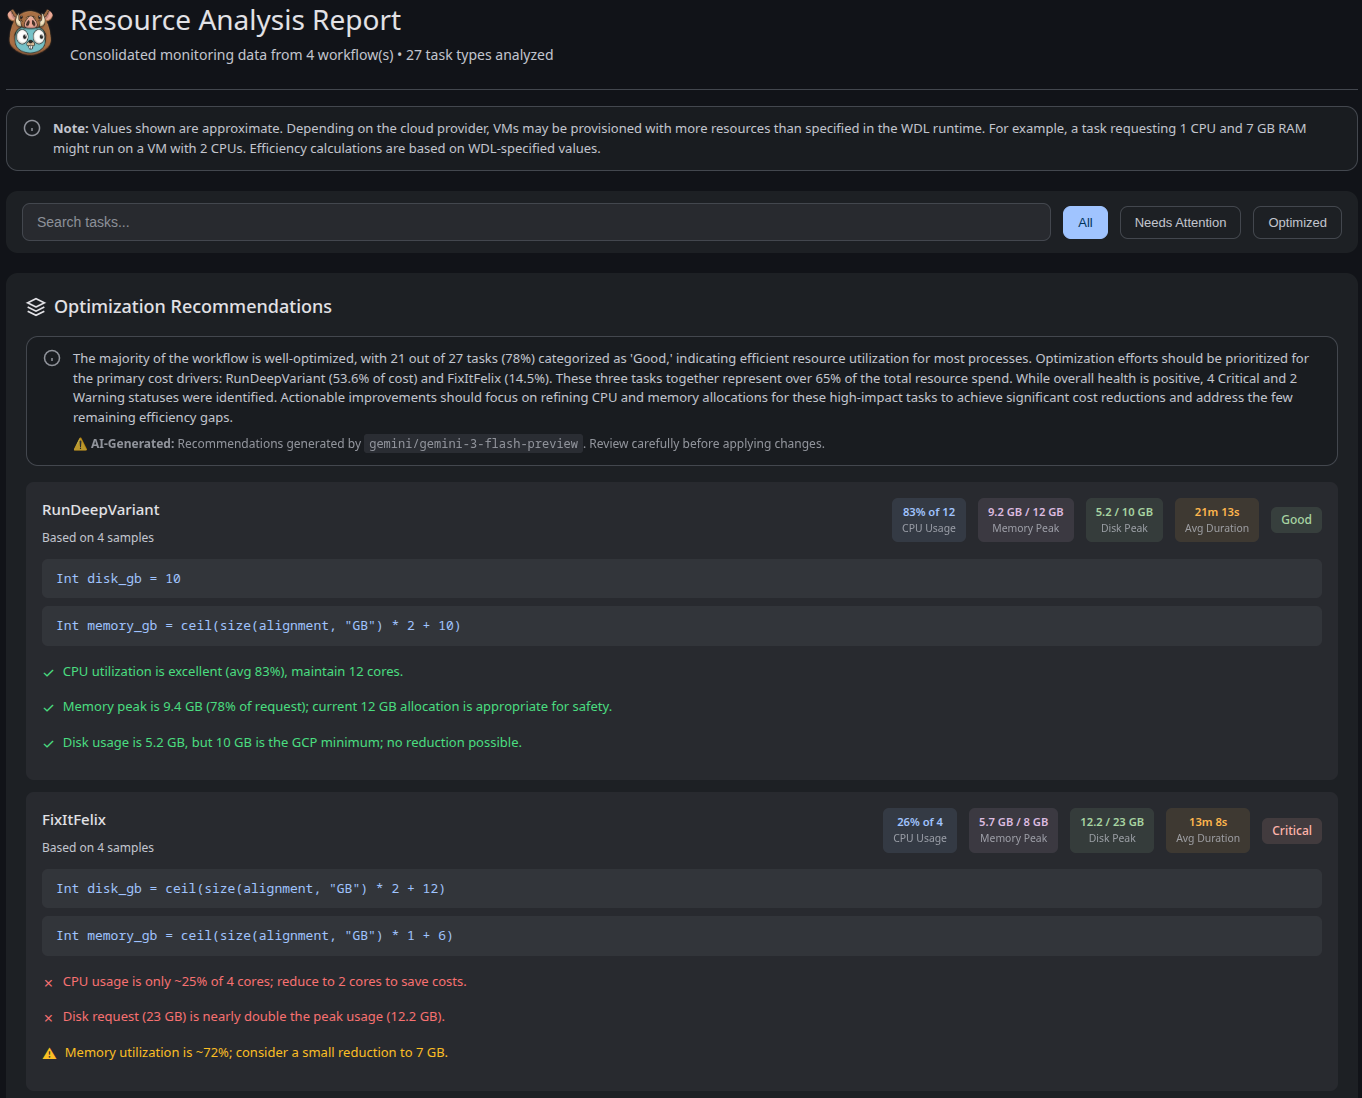
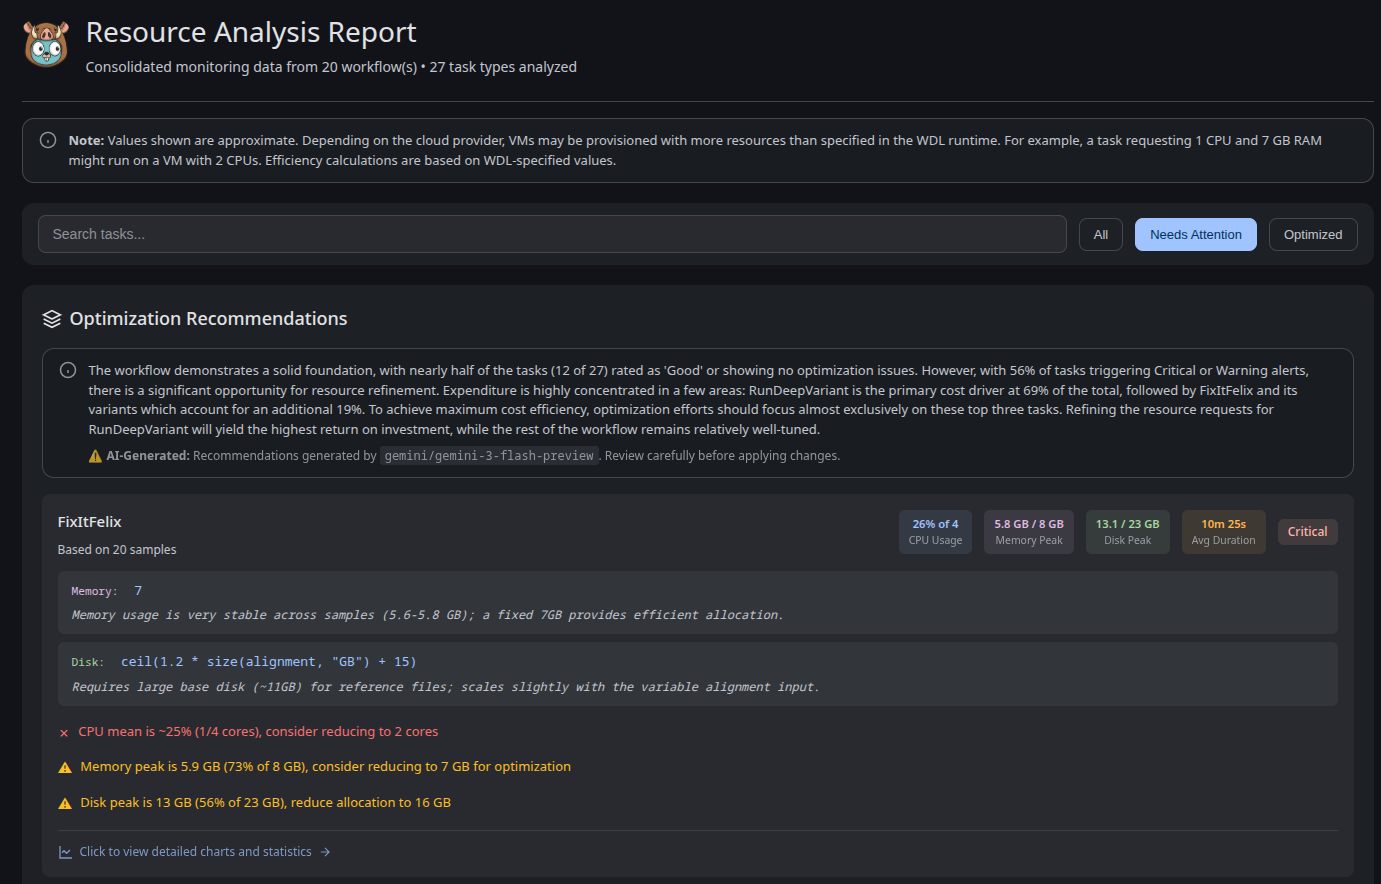
docs: update resource analysis

diff --git a/docs/features/resource-analysis.md b/docs/features/resource-analysis.md
@@ -73,15 +73,12 @@ pumbaa analyze resources [flags] <directory>
 
 **Flags**
 
-* `--output`, `-o`
-  Output path for the generated HTML report
-  (default: `resource_report.html`)
-
-* `--no-llm`
-  Disable LLM-based optimization recommendations. Useful for offline usage or faster generation.
-
-* `--llm-batch-size`
-  Number of tasks analyzed per LLM request (default: `25`).
+| Flag | Description |
+|------|-------------|
+| `--output`, `-o` | Output path for the generated HTML report (default: `resource_report.html`) |
+| `--no-llm` | Disable LLM-based optimization recommendations. Useful for offline usage or faster generation. |
+| `--llm-batch-size` | Number of tasks analyzed per LLM request (default: `25`). |
+| `--llm-debug` | Path to save LLM prompts and responses for debugging purposes. |
 
 ---
 
@@ -95,16 +92,61 @@ The generated output is a **self-contained HTML file**, viewable in any modern b
 
 ---
 
+### Executive Summary
+
+At the top of the report, an **executive summary** provides a quick overview of workflow health:
+
+- Total number of tasks analyzed
+- Breakdown by optimization status (Good, Warning, Critical)
+- Top cost drivers and their percentage of total resource cost
+- Key recommendations for where to focus optimization efforts
+
+This summary is generated by the LLM and gives you an at-a-glance understanding of where to prioritize your time.
+
+---
+
 ### Optimization Recommendations (LLM)
 
-When enabled, Pumbaa uses a Large Language Model (LLM) to analyze task-level metrics and generate actionable optimization recommendations. Common patterns include:
+When enabled, Pumbaa uses a Large Language Model (LLM) to analyze task-level metrics and generate actionable optimization recommendations. For each task, the LLM evaluates:
 
-* Over-provisioned memory leading to unnecessary cost
-* Low CPU utilization causing suboptimal runtimes
-* Disk usage outliers and scaling anomalies
+* CPU utilization patterns
+* Memory peak vs. allocated memory
+* Disk usage efficiency
+* Scaling behavior relative to input size
+
+Recommendations are color-coded by severity:
+
+- 🟢 **Good** — Resource allocation is appropriate
+- 🟡 **Warning** — Potential for optimization
+- 🔴 **Critical** — Significant over-provisioning detected
+
+> [!CAUTION]
+> LLM-generated recommendations are suggestions based on observed patterns and may not be accurate in all cases. **Always test changes in a non-production environment** before applying them to production workflows. Resource requirements can vary based on factors not captured in the metrics, such as algorithm complexity or data characteristics.
 
 > **Note**
 > When running with `--no-llm`, the report includes only descriptive statistics and visualizations, without automated optimization guidance.
+
+---
+
+### Dynamic Resource Formulas
+
+A unique feature of Pumbaa's LLM analysis is the generation of **dynamic resource formulas**. Instead of recommending static values, the LLM derives formulas based on input file sizes:
+
+```wdl
+# Example disk formula
+disk: ceil(1.5 * size(alignment, "GB") + 10)
+
+# Example memory formula
+memory: ceil(0.8 * size(input_bam, "GB") + 4) + " GB"
+```
+
+These formulas:
+
+- **Scale automatically** with varying input sizes
+- **Include safety margins** to prevent task failures
+- Are accompanied by **reasoning** explaining why the formula was chosen
+
+The formula reasoning appears directly below each formula in the report, helping you understand the LLM's analysis methodology (e.g., "Memory usage shows linear scaling with input size, slope ~0.8 GB per GB of input").
 
 ---
 
@@ -118,3 +160,22 @@ Selecting an individual task opens a detailed modal view with efficiency plots s
 
 ![Resource Analysis Modal](../assets/resource-analysis-report-modal.png)
 
+---
+
+## Troubleshooting
+
+### Debugging LLM Interactions
+
+If recommendations seem unexpected, you can save and inspect the LLM interactions:
+
+```bash
+pumbaa analyze resources --llm-debug=llm_debug.txt ./reports/
+```
+
+The debug file contains:
+
+- System instructions sent to the LLM
+- Formatted prompts with task data
+- Raw LLM responses
+
+This is useful for understanding how the LLM interprets your data and for reporting issues.